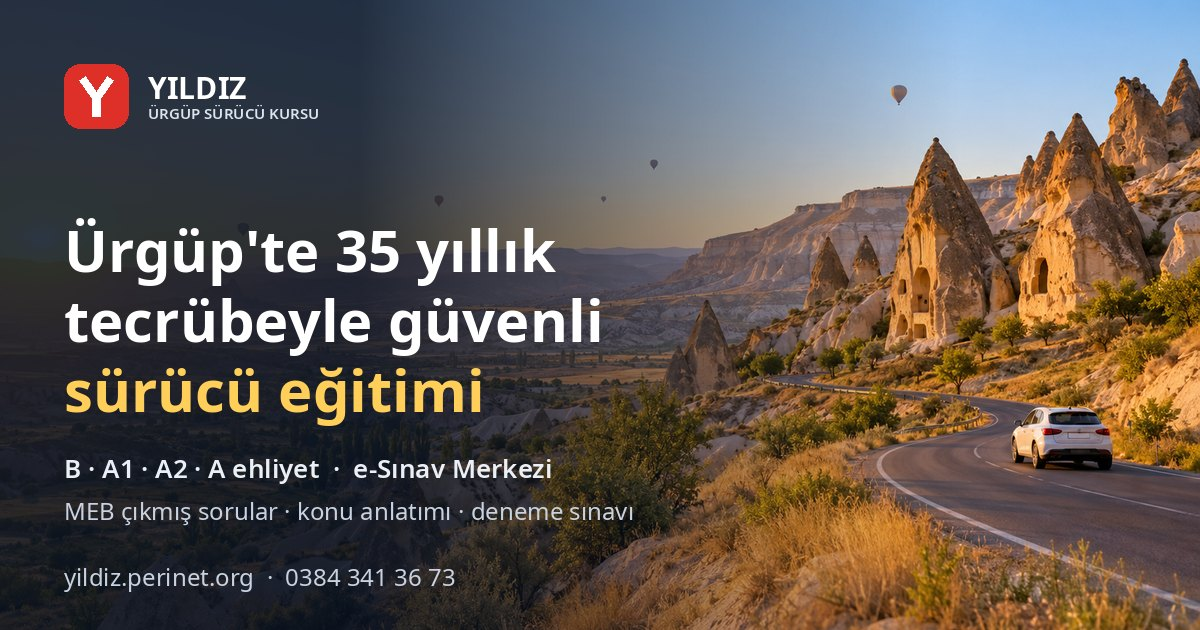
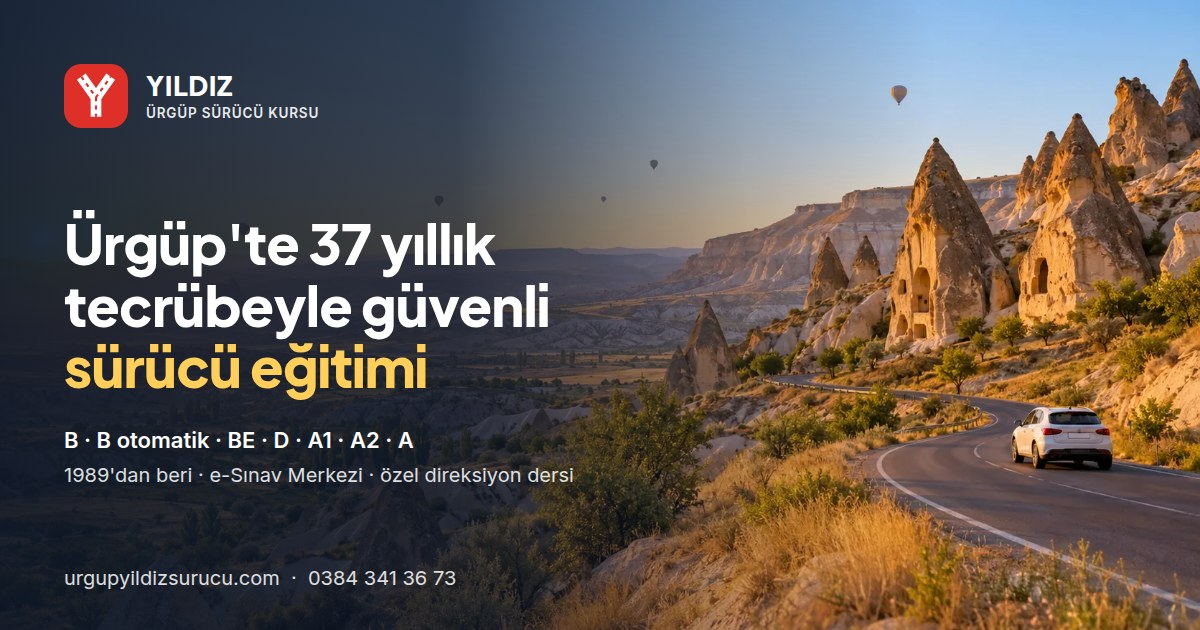
Sınıflar tamamlandı (B otomatik, BE, D) ve kuruluş yılı 1989
Kurs kartlarına BE ve D (römork ve otobüs) eklendi, B kartına manuel/otomatik
vites; yaş hesaplayıcı, SSS, ön kayıt formu ve paylaşım görseli güncellendi.
Tecrübe 37 yıl; sayı her yıl 1989'dan hesaplanır, alt bilgi "1989'dan beri".

Changed region(s): [[0.0308, 0.3317, 0.5242, 0.8444], [0.0617, 0.1206, 0.2775, 0.2111], [0.0308, 0.9048, 0.4008, 0.9349]]

diff --git a/index.html b/index.html
@@ -3,9 +3,9 @@
 <head>
   <meta charset="utf-8">
   <meta name="viewport" content="width=device-width, initial-scale=1, viewport-fit=cover">
-  <title>Ürgüp Yıldız Sürücü Kursu | 35 Yıllık Tecrübe · B, A1, A2, A Ehliyet · e-Sınav Hazırlık</title>
-  <meta name="description" content="Ürgüp Yıldız Sürücü Kursu: 35 yıllık tecrübeyle Ürgüp merkezde B sınıfı otomobil, A1-A2-A motosiklet ehliyeti ve özel direksiyon dersi. MEB'e bağlı özel sürücü kursu. ☎ 0384 341 36 73">
-  <meta name="keywords" content="Ürgüp sürücü kursu, Ürgüp ehliyet, Yıldız sürücü kursu, Nevşehir sürücü kursu, B sınıfı ehliyet, motosiklet ehliyeti, A1 A2 A ehliyet, özel direksiyon dersi, Kapadokya sürücü kursu">
+  <title>Ürgüp Yıldız Sürücü Kursu | 1989'dan Beri · B, BE, D, A1, A2, A Ehliyet · e-Sınav Hazırlık</title>
+  <meta name="description" content="Ürgüp Yıldız Sürücü Kursu: 1989'dan beri Ürgüp merkezde B sınıfı (manuel ve otomatik vites), BE, D ve A1-A2-A motosiklet ehliyeti, özel direksiyon dersi. MEB'e bağlı özel sürücü kursu. ☎ 0384 341 36 73">
+  <meta name="keywords" content="Ürgüp sürücü kursu, Ürgüp ehliyet, Yıldız sürücü kursu, Nevşehir sürücü kursu, B sınıfı ehliyet, otomatik vites ehliyet, BE sınıfı ehliyet, D sınıfı ehliyet, otobüs ehliyeti, motosiklet ehliyeti, A1 A2 A ehliyet, özel direksiyon dersi, Kapadokya sürücü kursu">
   <meta name="theme-color" content="#ffffff">
   <meta name="color-scheme" content="light dark">
   <script>
@@ -21,10 +21,10 @@
   <meta property="og:type" content="website">
   <meta property="og:locale" content="tr_TR">
   <meta property="og:site_name" content="Ürgüp Yıldız Sürücü Kursu">
-  <meta property="og:title" content="Ürgüp Yıldız Sürücü Kursu — 35 yıllık tecrübeyle güvenli sürücü eğitimi">
-  <meta property="og:description" content="Ürgüp merkezde B sınıfı otomobil, A1 · A2 · A motosiklet ehliyeti ve özel direksiyon dersi. Hemen ara: 0384 341 36 73">
+  <meta property="og:title" content="Ürgüp Yıldız Sürücü Kursu — 1989'dan beri güvenli sürücü eğitimi">
+  <meta property="og:description" content="Ürgüp merkezde B (manuel ve otomatik), BE, D ve A1 · A2 · A motosiklet ehliyeti, özel direksiyon dersi. Hemen ara: 0384 341 36 73">
   <meta property="og:url" content="https://www.urgupyildizsurucu.com/">
-  <meta property="og:image" content="https://www.urgupyildizsurucu.com/assets/og.jpg?v=2">
+  <meta property="og:image" content="https://www.urgupyildizsurucu.com/assets/og.jpg?v=3">
   <meta property="og:image:width" content="1200">
   <meta property="og:image:height" content="630">
   <meta property="og:image:alt" content="Kapadokya'da peri bacaları arasında kıvrılan yolda ilerleyen beyaz bir otomobil">
@@ -49,11 +49,12 @@
     "name": "Ürgüp Yıldız Sürücü Kursu",
     "alternateName": "Özel Ürgüp Yıldız Motorlu Taşıtlar Sürücü Kursu",
     "url": "https://www.urgupyildizsurucu.com/",
-    "image": "https://www.urgupyildizsurucu.com/assets/og.jpg?v=2",
+    "image": "https://www.urgupyildizsurucu.com/assets/og.jpg?v=3",
     "logo": "https://www.urgupyildizsurucu.com/assets/apple-touch-icon.png",
     "telephone": "+90 384 341 36 73",
     "faxNumber": "+90 384 341 36 72",
     "email": "yildizmtsk50@hotmail.com",
+    "foundingDate": "1989",
     "address": {
       "@type": "PostalAddress",
       "streetAddress": "Cumhuriyet Mah. Güllüce 1 Sk. Turkuaz İş Merkezi No:8/1",
@@ -107,6 +108,7 @@
     <symbol id="i-card" viewBox="0 0 24 24"><rect x="3" y="6" width="18" height="12" rx="2"/><path d="M7 10h5M7 14h8"/></symbol>
     <symbol id="i-wheel" viewBox="0 0 24 24"><circle cx="12" cy="12" r="9.5"/><circle cx="12" cy="12" r="2.4"/><path d="M12 14.4v7M9.7 11.3 2.8 9.6M14.3 11.3l6.9-1.7"/></symbol>
     <symbol id="i-car" viewBox="0 0 24 24"><path d="M5 17H4a2 2 0 0 1-2-2v-3l2.5-5h11l3.5 5h2a1 1 0 0 1 1 1v2a2 2 0 0 1-2 2h-1M9 17h6"/><circle cx="7" cy="17" r="2"/><circle cx="17" cy="17" r="2"/></symbol>
+    <symbol id="i-bus" viewBox="0 0 24 24"><rect x="4" y="3" width="16" height="16" rx="2"/><path d="M4 11h16M10 6h4M4 6 2 7M22 7l-2-1M8 15h.01M16 15h.01M6 19v2M18 21v-2"/></symbol>
     <symbol id="i-moto" viewBox="0 0 24 24"><circle cx="5" cy="16.5" r="3.5"/><circle cx="19" cy="16.5" r="3.5"/><path d="M5 16.5 9 9h4.5l2.5 7.5M14.5 5.5h3l1.5 4M9 9H6.5"/></symbol>
     <symbol id="i-phoneapp" viewBox="0 0 24 24"><rect x="6" y="2" width="12" height="20" rx="2.5"/><path d="M11 18h2"/></symbol>
     <symbol id="i-route" viewBox="0 0 24 24"><circle cx="6" cy="19" r="2.5"/><circle cx="18" cy="5" r="2.5"/><path d="M8.5 19H17a3.5 3.5 0 0 0 0-7H7a3.5 3.5 0 0 1 0-7h8.5"/></symbol>
@@ -199,8 +201,8 @@
       <div class="hero-shade" aria-hidden="true"></div>
       <div class="wrap hero-in">
         <p class="hero-badge reveal"><svg class="ic"><use href="#i-shield"/></svg>T.C. Millî Eğitim Bakanlığı'na bağlı özel sürücü kursu</p>
-        <h1 id="hero-title" class="reveal d1">Ürgüp'te <em>35 yıllık</em> tecrübeyle güvenli sürücü eğitimi</h1>
-        <p class="hero-lead reveal d2">B sınıfı otomobil, A1 · A2 · A motosiklet ehliyeti ve özel direksiyon dersleri. Teorik eğitimden direksiyon sınavına kadar her adımda yanınızdayız.</p>
+        <h1 id="hero-title" class="reveal d1">Ürgüp'te <em><span data-yil>37</span> yıllık</em> tecrübeyle güvenli sürücü eğitimi</h1>
+        <p class="hero-lead reveal d2">B sınıfı (manuel ve otomatik vites), BE, D ve A1 · A2 · A motosiklet ehliyeti, özel direksiyon dersleri. Teorik eğitimden direksiyon sınavına kadar her adımda yanınızdayız.</p>
         <div class="hero-actions reveal d3">
           <a class="btn btn-red btn-lg" href="#iletisim" data-kayit><svg class="ic"><use href="#i-send"/></svg>Ön kayıt yaptırın</a>
           <a class="btn btn-ghost-light btn-lg" href="e-sinav.html"><svg class="ic"><use href="#i-monitor"/></svg>e-Sınav'a hazırlanın</a>
@@ -212,8 +214,8 @@
     <section class="trust" aria-label="Rakamlarla Yıldız Sürücü Kursu">
       <div class="wrap">
         <div class="trust-grid reveal">
-          <div class="trust-item"><span class="trust-ic"><svg class="ic"><use href="#i-trophy"/></svg></span><div><b>35 yıl</b><span>Ürgüp'te sürücü eğitimi tecrübesi</span></div></div>
-          <div class="trust-item"><span class="trust-ic"><svg class="ic"><use href="#i-id"/></svg></span><div><b>B · A1 · A2 · A</b><span>otomobil ve motosiklet sınıfları</span></div></div>
+          <div class="trust-item"><span class="trust-ic"><svg class="ic"><use href="#i-trophy"/></svg></span><div><b><span data-yil>37</span> yıl</b><span>1989'dan beri Ürgüp'te sürücü eğitimi</span></div></div>
+          <div class="trust-item"><span class="trust-ic"><svg class="ic"><use href="#i-id"/></svg></span><div><b>7 sınıf</b><span>B · B otomatik · BE · D · A1 · A2 · A</span></div></div>
           <div class="trust-item"><span class="trust-ic"><svg class="ic"><use href="#i-monitor"/></svg></span><div><b>1.500+ soru</b><span>MEB sınavlarında çıkmış gerçek sorular</span></div></div>
           <div class="trust-item"><span class="trust-ic"><svg class="ic"><use href="#i-clock"/></svg></span><div><b>08:30 – 17:30</b><span class="status-pill" data-status><i></i><span>Pazartesi – Cumartesi</span></span></div></div>
         </div>
@@ -234,7 +236,7 @@
           <p class="kicker reveal">Hakkımızda</p>
           <h2 id="about-title" class="h2 reveal">Ürgüp'ün köklü sürücü kursu</h2>
           <p class="lead reveal">Özel Ürgüp Yıldız Motorlu Taşıtlar Sürücü Kursu, T.C. Millî Eğitim Bakanlığı'na bağlı olarak Ürgüp'te hizmet veren köklü bir eğitim kurumudur.</p>
-          <p class="reveal">35 yıllık tecrübemiz ve deneyimli eğitim kadromuzla Ürgüp ve çevresinden her yaştan kursiyeri güvenle direksiyona hazırlıyoruz. Amacımız yalnızca sınavları geçirmek değil; Kapadokya'nın virajlı yollarında, kış şartlarında ve şehir trafiğinde kendine güvenen, trafik adabını benimsemiş sürücüler yetiştirmektir.</p>
+          <p class="reveal">1989'da kurulan kursumuz, <span data-yil>37</span> yıllık tecrübesi ve deneyimli eğitim kadrosuyla Ürgüp ve çevresinden her yaştan kursiyeri güvenle direksiyona hazırlıyor. Amacımız yalnızca sınavları geçirmek değil; Kapadokya'nın virajlı yollarında, kış şartlarında ve şehir trafiğinde kendine güvenen, trafik adabını benimsemiş sürücüler yetiştirmektir.</p>
         </div>
       </div>
     </section>
@@ -245,15 +247,15 @@
         <div class="sec-head">
           <p class="kicker reveal">Kurslar</p>
           <h2 id="courses-title" class="h2 reveal">Eğitim programlarımız</h2>
-          <p class="sec-sub reveal">Kursumuzda verilen başlıca eğitimler. Güncel ücretler, dönem tarihleri ve diğer sınıflar için lütfen bizimle iletişime geçin.</p>
+          <p class="sec-sub reveal">Kursumuzda B, B otomatik, BE, D, A1, A2 ve A sınıflarında eğitim veriyoruz. Güncel ücretler ve dönem tarihleri için lütfen bizimle iletişime geçin.</p>
         </div>
         <div class="cc-grid">
           <article class="cc reveal">
             <div class="cc-media"><img src="assets/img/course-b.webp" width="900" height="675" alt="Ürgüp'te taş evlerin önünde park etmiş beyaz bir otomobil" loading="lazy"></div>
             <div class="cc-body">
               <div class="cc-head"><span class="cc-class">B</span><h3>Otomobil ehliyeti</h3></div>
-              <p>Otomobil ve kamyonet kullanımı için. Teorik derslerden direksiyon sınavına kadar planlı eğitim programı.</p>
-              <ul class="cc-specs"><li>Yaş <b>18+</b></li><li>Teorik <b>34 saat</b></li><li>Direksiyon <b>14 saat*</b></li></ul>
+              <p>Otomobil ve kamyonet kullanımı için; manuel ya da otomatik vitesli araçla. Teorik derslerden direksiyon sınavına kadar planlı eğitim programı.</p>
+              <ul class="cc-specs"><li>Yaş <b>18+</b></li><li>Vites <b>Manuel · Otomatik</b></li><li>Direksiyon <b>14 saat*</b></li></ul>
               <a class="cc-link" data-wa="B sınıfı otomobil ehliyeti" href="#iletisim">Bilgi alın <svg class="ic"><use href="#i-arrow"/></svg></a>
             </div>
           </article>
@@ -264,6 +266,21 @@
               <p>Sürücü belgeniz var ama trafiğe çıkmaya çekiniyor musunuz? Serbest güzergâhta, kendi temponuzda, birebir direksiyon eğitimi.</p>
               <ul class="cc-specs"><li>Güzergâh <b>Serbest</b></li><li>Ders <b>Birebir</b></li><li>Konu <b>Şehir içi · park · rampa</b></li></ul>
               <a class="cc-link" data-wa="özel direksiyon dersi" href="#iletisim">Bilgi alın <svg class="ic"><use href="#i-arrow"/></svg></a>
+            </div>
+          </article>
+          <article class="cc cc-wide reveal">
+            <div class="cc-media"><img src="assets/img/course-bus.webp" width="900" height="675" alt="Kapadokya'da yol kenarında duran beyaz bir otobüs ve arkasında römorklu bir otomobil" loading="lazy"></div>
+            <div class="cc-body">
+              <div class="cc-head"><span class="cc-class ic-only"><svg class="ic"><use href="#i-bus"/></svg></span><h3>Römork ve otobüs ehliyeti</h3></div>
+              <p>B sınıfı sürücü belgesi olanlar için BE (ağır römork) ve D (otobüs) sınıflarında eğitim.</p>
+              <table class="moto-table">
+                <thead><tr><th>Sınıf</th><th>Kapsam</th><th>Yaş</th><th>Direksiyon</th></tr></thead>
+                <tbody>
+                  <tr><td><span class="cls-tag">BE</span></td><td>Otomobil + römork<small>Azami yüklü ağırlığı 750 kg'ı aşan römork veya karavan</small></td><td>18+</td><td>6 saat*</td></tr>
+                  <tr><td><span class="cls-tag">D</span></td><td>Otobüs<small>Yolcu otobüsleri; B sınıfı belge gerekir</small></td><td>24+</td><td>14 saat*</td></tr>
+                </tbody>
+              </table>
+              <a class="cc-link" data-wa="BE / D sınıfı ehliyet" href="#iletisim">Bilgi alın <svg class="ic"><use href="#i-arrow"/></svg></a>
             </div>
           </article>
           <article class="cc cc-wide reveal">
@@ -291,7 +308,7 @@
           </div>
           <a class="btn btn-line" data-wa="B'den A1'e (125 cc) geçiş" href="#iletisim">Şartları sorun <svg class="ic"><use href="#i-arrow"/></svg></a>
         </div>
-        <p class="footnote reveal">* MEB Özel Motorlu Taşıt Sürücüleri Kursu Yönetmeliği'nde belirlenen, akan trafikte asgari direksiyon eğitimi süreleridir; en az 2 saati gece sürüşüdür. 1 ders saati 50 dakikadır. A sınıfında 2 yıllık A2 deneyimi olanlar için 6, 24 yaşını doldurup deneyim şartı aranmayanlar için 12 saattir.</p>
+        <p class="footnote reveal">* MEB Özel Motorlu Taşıt Sürücüleri Kursu Yönetmeliği'nde belirlenen, akan trafikte asgari direksiyon eğitimi süreleridir; en az 2 saati gece sürüşüdür. 1 ders saati 50 dakikadır. A sınıfında 2 yıllık A2 deneyimi olanlar için 6, 24 yaşını doldurup deneyim şartı aranmayanlar için 12 saattir. Otomatik vitesli araçla alınan belge yalnızca otomatik vitesli araç kullanma hakkı verir.</p>
       </div>
     </section>
     <!-- YAŞ HESAPLAYICI -->
@@ -309,7 +326,7 @@
         </div>
         <div class="age-board reveal d1" id="age-board"></div>
       </div>
-      <div class="wrap"><p class="footnote">Bilgilendirme amaçlıdır; Karayolları Trafik Yönetmeliği'ndeki yaş şartları esas alınmıştır. Diğer sınıfların (C, D, BE vb.) yaş ve deneyim şartları farklıdır; kesin bilgi için kursumuza danışın.</p></div>
+      <div class="wrap"><p class="footnote">Bilgilendirme amaçlıdır; Karayolları Trafik Yönetmeliği'ndeki yaş şartları esas alınmıştır. BE ve D sınıfları için ayrıca B sınıfı sürücü belgesi gerekir; deneyim ve diğer şartlar için kursumuza danışın.</p></div>
     </section>
 
     <!-- SÜREÇ -->
@@ -477,11 +494,11 @@
           </details>
           <details class="faq reveal">
             <summary>Direksiyon eğitimi kaç saat sürüyor?<svg class="ic"><use href="#i-down"/></svg></summary>
-            <div class="faq-a"><p>Akan trafikte asgari süreler; B sınıfı için 14, A1 ve A2 için 12 ders saatidir. A sınıfında 2 yıllık A2 deneyimi olanlar için 6, 24 yaşını doldurmuş ve deneyim şartı aranmayanlar için 12 saattir. Bu sürenin en az 2 saati gece sürüşüdür. Bir kursiyer günde en fazla 2 saat direksiyon dersi alabilir; bir ders saati 50 dakikadır. Kendinizi hazır hissetmezseniz ek ders alabilirsiniz.</p></div>
+            <div class="faq-a"><p>Akan trafikte asgari süreler; B sınıfı için 14, BE için 6, D için 14, A1 ve A2 için 12 ders saatidir. A sınıfında 2 yıllık A2 deneyimi olanlar için 6, 24 yaşını doldurmuş ve deneyim şartı aranmayanlar için 12 saattir. Bu sürenin en az 2 saati gece sürüşüdür. Bir kursiyer günde en fazla 2 saat direksiyon dersi alabilir; bir ders saati 50 dakikadır. Kendinizi hazır hissetmezseniz ek ders alabilirsiniz.</p></div>
           </details>
           <details class="faq reveal">
             <summary>Otomatik vitesli araçla ehliyet alabilir miyim?<svg class="ic"><use href="#i-down"/></svg></summary>
-            <div class="faq-a"><p>Mevzuat buna izin verir: otomatik şanzımanlı araçla eğitim alıp sınavı geçenlerin belgesine yalnızca otomatik vitesli araç kullanabilecekleri işlenir. e-Sınavı geçtikten sonra, direksiyon planlaması yapılmadan önce manuel/otomatik tercihinizi değiştirmek mümkündür. Güncel araç ve takvim durumu için bizi arayın.</p></div>
+            <div class="faq-a"><p>Evet, kursumuzda otomatik vitesli araçla B sınıfı eğitim veriyoruz. Otomatik araçla eğitim alıp sınavı geçenlerin belgesine yalnızca otomatik vitesli araç kullanabilecekleri işlenir. e-Sınavı geçtikten sonra, direksiyon planlaması yapılmadan önce manuel/otomatik tercihinizi değiştirmek mümkündür.</p></div>
           </details>
           <details class="faq reveal">
             <summary>B ehliyetimle motosiklet kullanabilir miyim?<svg class="ic"><use href="#i-down"/></svg></summary>
@@ -553,7 +570,10 @@
             <fieldset class="field">
               <legend>İlgilendiğiniz eğitim</legend>
               <div class="pills" id="course-pills">
-                <label><input type="radio" name="egitim" value="B sınıfı otomobil ehliyeti" checked><span>B · Otomobil</span></label>
+                <label><input type="radio" name="egitim" value="B sınıfı otomobil ehliyeti" checked><span>B · Manuel</span></label>
+                <label><input type="radio" name="egitim" value="B sınıfı otomatik vites ehliyeti"><span>B · Otomatik</span></label>
+                <label><input type="radio" name="egitim" value="BE sınıfı (römork) ehliyeti"><span>BE</span></label>
+                <label><input type="radio" name="egitim" value="D sınıfı (otobüs) ehliyeti"><span>D</span></label>
                 <label><input type="radio" name="egitim" value="A1 sınıfı motosiklet ehliyeti"><span>A1</span></label>
                 <label><input type="radio" name="egitim" value="A2 sınıfı motosiklet ehliyeti"><span>A2</span></label>
                 <label><input type="radio" name="egitim" value="A sınıfı motosiklet ehliyeti"><span>A</span></label>
@@ -586,7 +606,7 @@
       <div class="foot-grid">
         <div class="foot-brand">
           <a class="brand" href="#top"><svg class="brand-mark"><use href="#brandmark"/></svg><span class="brand-text"><b>YILDIZ</b><small>ÜRGÜP SÜRÜCÜ KURSU</small></span></a>
-          <p>Özel Ürgüp Yıldız Motorlu Taşıtlar Sürücü Kursu — T.C. Millî Eğitim Bakanlığı'na bağlı özel kurum. 35 yıldır Ürgüp'te.</p>
+          <p>Özel Ürgüp Yıldız Motorlu Taşıtlar Sürücü Kursu — T.C. Millî Eğitim Bakanlığı'na bağlı özel kurum. 1989'dan beri Ürgüp'te.</p>
           <p class="foot-meta">Kurs Müdürü: Mustafa AYAZ</p>
           <div class="socials">
             <a href="https://www.instagram.com/urgup_yildiz_surucu_kursu/" target="_blank" rel="noopener" aria-label="Instagram"><svg class="ic"><use href="#i-insta"/></svg></a>
@@ -656,6 +676,6 @@
     ]
   }
   </script>
-  <script src="assets/site.js?v=6" defer></script>
+  <script src="assets/site.js?v=7" defer></script>
 </body>
 </html>

diff --git a/trafik-akademisi.html b/trafik-akademisi.html
@@ -22,7 +22,7 @@
   <meta property="og:title" content="Trafik Akademisi: 10 Etkileşimli Trafik Dersi | Ürgüp Yıldız Sürücü Kursu">
   <meta property="og:description" content="Trafik kurallarını uygulayarak öğrenin: 3B sürüş, kavşak ve park senaryoları, levhalar, ayna görüntüsü, gösterge ışıkları ve ilk yardım ritmiyle 10 etkileşimli ders. Ürgüp Yıldız Sürücü Kursu.">
   <meta property="og:url" content="https://www.urgupyildizsurucu.com/trafik-akademisi.html">
-  <meta property="og:image" content="https://www.urgupyildizsurucu.com/assets/og.jpg?v=2">
+  <meta property="og:image" content="https://www.urgupyildizsurucu.com/assets/og.jpg?v=3">
   <meta name="twitter:card" content="summary_large_image">
   <link rel="icon" href="assets/favicon.svg" type="image/svg+xml">
   <link rel="icon" href="assets/favicon-32.png" sizes="32x32" type="image/png">
@@ -60,6 +60,7 @@
     <symbol id="i-card" viewBox="0 0 24 24"><rect x="3" y="6" width="18" height="12" rx="2"/><path d="M7 10h5M7 14h8"/></symbol>
     <symbol id="i-wheel" viewBox="0 0 24 24"><circle cx="12" cy="12" r="9.5"/><circle cx="12" cy="12" r="2.4"/><path d="M12 14.4v7M9.7 11.3 2.8 9.6M14.3 11.3l6.9-1.7"/></symbol>
     <symbol id="i-car" viewBox="0 0 24 24"><path d="M5 17H4a2 2 0 0 1-2-2v-3l2.5-5h11l3.5 5h2a1 1 0 0 1 1 1v2a2 2 0 0 1-2 2h-1M9 17h6"/><circle cx="7" cy="17" r="2"/><circle cx="17" cy="17" r="2"/></symbol>
+    <symbol id="i-bus" viewBox="0 0 24 24"><rect x="4" y="3" width="16" height="16" rx="2"/><path d="M4 11h16M10 6h4M4 6 2 7M22 7l-2-1M8 15h.01M16 15h.01M6 19v2M18 21v-2"/></symbol>
     <symbol id="i-moto" viewBox="0 0 24 24"><circle cx="5" cy="16.5" r="3.5"/><circle cx="19" cy="16.5" r="3.5"/><path d="M5 16.5 9 9h4.5l2.5 7.5M14.5 5.5h3l1.5 4M9 9H6.5"/></symbol>
     <symbol id="i-phoneapp" viewBox="0 0 24 24"><rect x="6" y="2" width="12" height="20" rx="2.5"/><path d="M11 18h2"/></symbol>
     <symbol id="i-route" viewBox="0 0 24 24"><circle cx="6" cy="19" r="2.5"/><circle cx="18" cy="5" r="2.5"/><path d="M8.5 19H17a3.5 3.5 0 0 0 0-7H7a3.5 3.5 0 0 1 0-7h8.5"/></symbol>
@@ -497,7 +498,7 @@
       <div class="foot-grid">
         <div class="foot-brand">
           <a class="brand" href="index.html"><svg class="brand-mark"><use href="#brandmark"/></svg><span class="brand-text"><b>YILDIZ</b><small>ÜRGÜP SÜRÜCÜ KURSU</small></span></a>
-          <p>Özel Ürgüp Yıldız Motorlu Taşıtlar Sürücü Kursu — T.C. Millî Eğitim Bakanlığı'na bağlı özel kurum. 35 yıldır Ürgüp'te.</p>
+          <p>Özel Ürgüp Yıldız Motorlu Taşıtlar Sürücü Kursu — T.C. Millî Eğitim Bakanlığı'na bağlı özel kurum. 1989'dan beri Ürgüp'te.</p>
           <p class="foot-meta">Kurs Müdürü: Mustafa AYAZ</p>
           <div class="socials">
             <a href="https://www.instagram.com/urgup_yildiz_surucu_kursu/" target="_blank" rel="noopener" aria-label="Instagram"><svg class="ic"><use href="#i-insta"/></svg></a>
@@ -552,7 +553,7 @@
     <a class="qb-red" href="index.html#iletisim" data-kayit><svg class="ic"><use href="#i-send"/></svg>Ön Kayıt</a>
   </div>
 
-  <script src="assets/site.js?v=6" defer></script>
+  <script src="assets/site.js?v=7" defer></script>
   <script src="assets/kit.js?v=3" defer></script>
   <script src="assets/academy-gfx.js?v=4" defer></script>
   <script src="assets/academy-3d.js?v=4" defer></script>

diff --git a/e-sinav.html b/e-sinav.html
@@ -22,7 +22,7 @@
   <meta property="og:title" content="e-Sınav Merkezi: 1.531 Çıkmış Ehliyet Sorusu, Deneme Sınavı | Ürgüp Yıldız Sürücü Kursu">
   <meta property="og:description" content="MEB ehliyet sınavlarında çıkmış 1.531 gerçek soru: e-Sınav düzeninde deneme sınavı, konu konu çalışma modu, çıkmış sınavlar ve konu anlatımı. Ürgüp Yıldız Sürücü Kursu.">
   <meta property="og:url" content="https://www.urgupyildizsurucu.com/e-sinav.html">
-  <meta property="og:image" content="https://www.urgupyildizsurucu.com/assets/og.jpg?v=2">
+  <meta property="og:image" content="https://www.urgupyildizsurucu.com/assets/og.jpg?v=3">
   <meta name="twitter:card" content="summary_large_image">
   <link rel="icon" href="assets/favicon.svg" type="image/svg+xml">
   <link rel="icon" href="assets/favicon-32.png" sizes="32x32" type="image/png">
@@ -61,6 +61,7 @@
     <symbol id="i-card" viewBox="0 0 24 24"><rect x="3" y="6" width="18" height="12" rx="2"/><path d="M7 10h5M7 14h8"/></symbol>
     <symbol id="i-wheel" viewBox="0 0 24 24"><circle cx="12" cy="12" r="9.5"/><circle cx="12" cy="12" r="2.4"/><path d="M12 14.4v7M9.7 11.3 2.8 9.6M14.3 11.3l6.9-1.7"/></symbol>
     <symbol id="i-car" viewBox="0 0 24 24"><path d="M5 17H4a2 2 0 0 1-2-2v-3l2.5-5h11l3.5 5h2a1 1 0 0 1 1 1v2a2 2 0 0 1-2 2h-1M9 17h6"/><circle cx="7" cy="17" r="2"/><circle cx="17" cy="17" r="2"/></symbol>
+    <symbol id="i-bus" viewBox="0 0 24 24"><rect x="4" y="3" width="16" height="16" rx="2"/><path d="M4 11h16M10 6h4M4 6 2 7M22 7l-2-1M8 15h.01M16 15h.01M6 19v2M18 21v-2"/></symbol>
     <symbol id="i-moto" viewBox="0 0 24 24"><circle cx="5" cy="16.5" r="3.5"/><circle cx="19" cy="16.5" r="3.5"/><path d="M5 16.5 9 9h4.5l2.5 7.5M14.5 5.5h3l1.5 4M9 9H6.5"/></symbol>
     <symbol id="i-phoneapp" viewBox="0 0 24 24"><rect x="6" y="2" width="12" height="20" rx="2.5"/><path d="M11 18h2"/></symbol>
     <symbol id="i-route" viewBox="0 0 24 24"><circle cx="6" cy="19" r="2.5"/><circle cx="18" cy="5" r="2.5"/><path d="M8.5 19H17a3.5 3.5 0 0 0 0-7H7a3.5 3.5 0 0 1 0-7h8.5"/></symbol>
@@ -279,7 +280,7 @@
       <div class="foot-grid">
         <div class="foot-brand">
           <a class="brand" href="index.html"><svg class="brand-mark"><use href="#brandmark"/></svg><span class="brand-text"><b>YILDIZ</b><small>ÜRGÜP SÜRÜCÜ KURSU</small></span></a>
-          <p>Özel Ürgüp Yıldız Motorlu Taşıtlar Sürücü Kursu — T.C. Millî Eğitim Bakanlığı'na bağlı özel kurum. 35 yıldır Ürgüp'te.</p>
+          <p>Özel Ürgüp Yıldız Motorlu Taşıtlar Sürücü Kursu — T.C. Millî Eğitim Bakanlığı'na bağlı özel kurum. 1989'dan beri Ürgüp'te.</p>
           <p class="foot-meta">Kurs Müdürü: Mustafa AYAZ</p>
           <div class="socials">
             <a href="https://www.instagram.com/urgup_yildiz_surucu_kursu/" target="_blank" rel="noopener" aria-label="Instagram"><svg class="ic"><use href="#i-insta"/></svg></a>
@@ -334,7 +335,7 @@
     <a class="qb-red" href="index.html#iletisim" data-kayit><svg class="ic"><use href="#i-send"/></svg>Ön Kayıt</a>
   </div>
 
-  <script src="assets/site.js?v=6" defer></script>
+  <script src="assets/site.js?v=7" defer></script>
   <script src="assets/kit.js?v=3" defer></script>
   <script src="assets/data/sorular.js?v=1" defer></script>
   <script src="assets/konu.js?v=1" defer></script>

diff --git a/konu-anlatimi.html b/konu-anlatimi.html
@@ -22,7 +22,7 @@
   <meta property="og:title" content="Konu Anlatımı: Ehliyet Sınavı Dersleri | Ürgüp Yıldız Sürücü Kursu">
   <meta property="og:description" content="Ehliyet e-Sınavı için 40 başlıkta konu anlatımı: İlk Yardım, Trafik ve Çevre, Araç Tekniği ve Trafik Adabı. Her konuda çıkmış sorular ve açıklamalar.">
   <meta property="og:url" content="https://www.urgupyildizsurucu.com/konu-anlatimi.html">
-  <meta property="og:image" content="https://www.urgupyildizsurucu.com/assets/og.jpg?v=2">
+  <meta property="og:image" content="https://www.urgupyildizsurucu.com/assets/og.jpg?v=3">
   <meta name="twitter:card" content="summary_large_image">
   <link rel="icon" href="assets/favicon.svg" type="image/svg+xml">
   <link rel="icon" href="assets/favicon-32.png" sizes="32x32" type="image/png">
@@ -61,6 +61,7 @@
     <symbol id="i-card" viewBox="0 0 24 24"><rect x="3" y="6" width="18" height="12" rx="2"/><path d="M7 10h5M7 14h8"/></symbol>
     <symbol id="i-wheel" viewBox="0 0 24 24"><circle cx="12" cy="12" r="9.5"/><circle cx="12" cy="12" r="2.4"/><path d="M12 14.4v7M9.7 11.3 2.8 9.6M14.3 11.3l6.9-1.7"/></symbol>
     <symbol id="i-car" viewBox="0 0 24 24"><path d="M5 17H4a2 2 0 0 1-2-2v-3l2.5-5h11l3.5 5h2a1 1 0 0 1 1 1v2a2 2 0 0 1-2 2h-1M9 17h6"/><circle cx="7" cy="17" r="2"/><circle cx="17" cy="17" r="2"/></symbol>
+    <symbol id="i-bus" viewBox="0 0 24 24"><rect x="4" y="3" width="16" height="16" rx="2"/><path d="M4 11h16M10 6h4M4 6 2 7M22 7l-2-1M8 15h.01M16 15h.01M6 19v2M18 21v-2"/></symbol>
     <symbol id="i-moto" viewBox="0 0 24 24"><circle cx="5" cy="16.5" r="3.5"/><circle cx="19" cy="16.5" r="3.5"/><path d="M5 16.5 9 9h4.5l2.5 7.5M14.5 5.5h3l1.5 4M9 9H6.5"/></symbol>
     <symbol id="i-phoneapp" viewBox="0 0 24 24"><rect x="6" y="2" width="12" height="20" rx="2.5"/><path d="M11 18h2"/></symbol>
     <symbol id="i-route" viewBox="0 0 24 24"><circle cx="6" cy="19" r="2.5"/><circle cx="18" cy="5" r="2.5"/><path d="M8.5 19H17a3.5 3.5 0 0 0 0-7H7a3.5 3.5 0 0 1 0-7h8.5"/></symbol>
@@ -500,7 +501,7 @@
       <div class="foot-grid">
         <div class="foot-brand">
           <a class="brand" href="index.html"><svg class="brand-mark"><use href="#brandmark"/></svg><span class="brand-text"><b>YILDIZ</b><small>ÜRGÜP SÜRÜCÜ KURSU</small></span></a>
-          <p>Özel Ürgüp Yıldız Motorlu Taşıtlar Sürücü Kursu — T.C. Millî Eğitim Bakanlığı'na bağlı özel kurum. 35 yıldır Ürgüp'te.</p>
+          <p>Özel Ürgüp Yıldız Motorlu Taşıtlar Sürücü Kursu — T.C. Millî Eğitim Bakanlığı'na bağlı özel kurum. 1989'dan beri Ürgüp'te.</p>
           <p class="foot-meta">Kurs Müdürü: Mustafa AYAZ</p>
           <div class="socials">
             <a href="https://www.instagram.com/urgup_yildiz_surucu_kursu/" target="_blank" rel="noopener" aria-label="Instagram"><svg class="ic"><use href="#i-insta"/></svg></a>
@@ -555,7 +556,7 @@
     <a class="qb-red" href="index.html#iletisim" data-kayit><svg class="ic"><use href="#i-send"/></svg>Ön Kayıt</a>
   </div>
 
-  <script src="assets/site.js?v=6" defer></script>
+  <script src="assets/site.js?v=7" defer></script>
   <script src="assets/kit.js?v=3" defer></script>
   <script src="assets/konu.js?v=1" defer></script>
 </body>

diff --git a/assets/site.js b/assets/site.js
@@ -17,6 +17,9 @@
   /* Trafik Akademisi ayrı sayfaya taşındı; eski #egitim bağlantıları oraya gitsin. */
   if (location.hash === '#egitim' && !document.getElementById('egitim')) { location.replace('trafik-akademisi.html'); return; }
 
+  /* Kuruluş 1989: "N yıl" sayıları her yıl kendiliğinden artar (HTML'de 2026'nın değeri yazılı). */
+  $$('[data-yil]').forEach((el) => { el.textContent = String(Math.max(37, new Date().getFullYear() - 1989)); });
+
   /* ---------------- Üst menü ---------------- */
   const nav = $('#nav');
   const burger = $('.burger');
@@ -228,7 +231,9 @@
   if ($('#age-board')) {
   // Yalnız kursumuzda verilen sınıflar; diğer sınıflar dipnotta.
   const CLASSES = [
-    { k: 'B', name: 'Otomobil', age: 18 },
+    { k: 'B', name: 'Otomobil (manuel / otomatik)', age: 18 },
+    { k: 'BE', name: 'Otomobil + römork', age: 18, note: 'B belgesiyle' },
+    { k: 'D', name: 'Otobüs', age: 24, note: 'B belgesiyle' },
     { k: 'A1', name: 'Hafif motosiklet', age: 16 },
     { k: 'A2', name: 'Orta sınıf motosiklet', age: 18 },
     { k: 'A', name: 'Tüm motosikletler', age: 20, alt: 24 }
@@ -270,7 +275,7 @@
         }
       }
       return `<div class="ag-row ${cls}"><span class="ag-k">${c.k}</span>` +
-        `<span class="ag-n">${c.name}<small>${c.alt ? `${c.age} yaş (2 yıllık A2 ile) · ${c.alt} yaş` : `${c.age} yaş`}</small></span>` +
+        `<span class="ag-n">${c.name}<small>${c.alt ? `${c.age} yaş (2 yıllık A2 ile) · ${c.alt} yaş` : `${c.age} yaş${c.note ? ` · ${c.note}` : ''}`}</small></span>` +
         `<span class="ag-st">${st}</span></div>`;
     }).join('');
 

diff --git a/tools/esinav/partials.py b/tools/esinav/partials.py
@@ -41,7 +41,7 @@ def footer(home):
       <div class="foot-grid">
         <div class="foot-brand">
           <a class="brand" href="{h or '#top'}"><svg class="brand-mark"><use href="#brandmark"/></svg><span class="brand-text"><b>YILDIZ</b><small>ÜRGÜP SÜRÜCÜ KURSU</small></span></a>
-          <p>Özel Ürgüp Yıldız Motorlu Taşıtlar Sürücü Kursu — T.C. Millî Eğitim Bakanlığı'na bağlı özel kurum. 35 yıldır Ürgüp'te.</p>
+          <p>Özel Ürgüp Yıldız Motorlu Taşıtlar Sürücü Kursu — T.C. Millî Eğitim Bakanlığı'na bağlı özel kurum. 1989'dan beri Ürgüp'te.</p>
           <p class="foot-meta">Kurs Müdürü: Mustafa AYAZ</p>
           <div class="socials">
             <a href="https://www.instagram.com/urgup_yildiz_surucu_kursu/" target="_blank" rel="noopener" aria-label="Instagram"><svg class="ic"><use href="#i-insta"/></svg></a>

diff --git a/README.md b/README.md
@@ -7,7 +7,7 @@ Canlı adres: <https://www.urgupyildizsurucu.com/>
 
 | Sayfa | İçerik |
 |---|---|
-| `index.html` | Kurumsal ana sayfa: hakkımızda, kurslar (B, A1, A2, A, özel direksiyon), yaş hesaplayıcı, ehliyet süreci, gerekli belgeler, e-Sınav ve Trafik Akademisi tanıtımı, SSS, iletişim ve ön kayıt |
+| `index.html` | Kurumsal ana sayfa: hakkımızda, kurslar (B manuel/otomatik, BE, D, A1, A2, A, özel direksiyon), yaş hesaplayıcı, ehliyet süreci, gerekli belgeler, e-Sınav ve Trafik Akademisi tanıtımı, SSS, iletişim ve ön kayıt |
 | `trafik-akademisi.html` | Trafik Akademisi: e-Sınav'ın dört dersine göre 10 etkileşimli ders (3B sürüş, kavşak, park, ayna, gösterge, ilk yardım ritmi) |
 | `e-sinav.html` | e-Sınav Merkezi: deneme sınavı (e-Sınav düzeninde 50 soru / 45 dk), çalışma modu (ders/konu seçimi, anında geri bildirim, açıklama, konu çekmecesi), çıkmış sınavlar, gelişim takibi |
 | `konu-anlatimi.html` | 40 başlıkta konu anlatımı (İlk Yardım, Trafik ve Çevre, Araç Tekniği, Trafik Adabı); her konuda çıkmış soru örnekleri |
